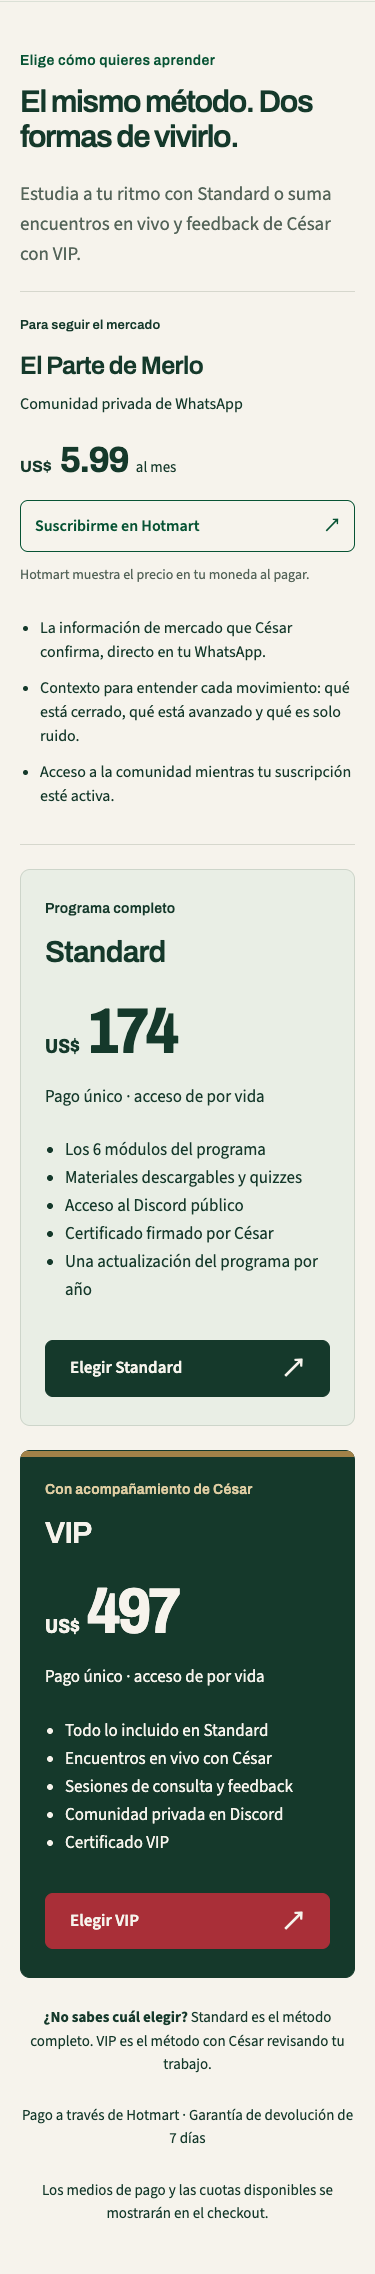
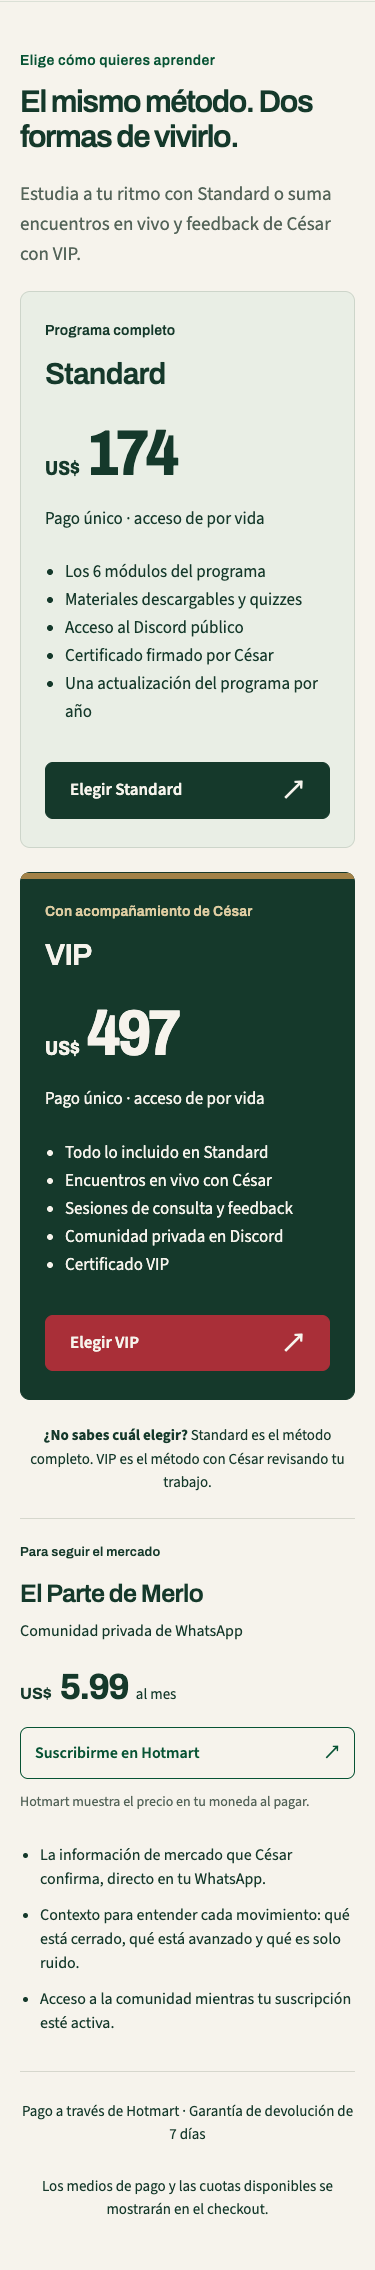
fix: prioritize academy plans above WhatsApp community

diff --git a/src/app/globals.css b/src/app/globals.css
@@ -5039,9 +5039,9 @@ details[open] p {
   text-underline-offset: 4px;
 }
 
-/* Tres niveles, con la academia como producto principal. */
+/* Academia primero; la comunidad ocupa un bloque secundario debajo. */
 .pricing-unified {
-  grid-template-columns: minmax(0, 0.82fr) repeat(2, minmax(0, 1fr));
+  grid-template-columns: repeat(2, minmax(0, 1fr));
   align-items: stretch;
   gap: 24px;
 }
@@ -5076,10 +5076,15 @@ details[open] p {
 .pricing-unified .plan .btn {
   font-size: 17px;
 }
+.pricing-unified .pricing-academy-guidance {
+  grid-column: 1 / -1;
+  margin: 0 auto;
+}
 .pricing-unified .plan-parte {
+  grid-column: 1 / -1;
   align-self: start;
   margin-top: 24px;
-  padding: 24px 20px;
+  padding: 24px 0;
   border-inline: 0;
   border-radius: 0;
   background: transparent;
@@ -5135,17 +5140,11 @@ details[open] p {
   outline-color: var(--paper);
 }
 
-@media (min-width: 681px) and (max-width: 1050px) {
-  .pricing-unified {
-    grid-template-columns: repeat(2, minmax(0, 1fr));
-  }
+@media (min-width: 681px) {
   .pricing-unified .plan-parte {
-    grid-column: 1 / -1;
     display: grid;
-    grid-template-columns: 1fr 1fr;
-    column-gap: 32px;
-    margin-top: 0;
-    padding: 24px 0;
+    grid-template-columns: repeat(2, minmax(0, 1fr));
+    column-gap: 48px;
   }
   .pricing-unified .plan-parte > .label,
   .pricing-unified .plan-parte > h3,
@@ -5154,11 +5153,16 @@ details[open] p {
   .pricing-unified .plan-parte > .parte-availability {
     grid-column: 1;
   }
+  .pricing-unified .plan-parte .commerce-button {
+    max-width: 360px;
+  }
   .pricing-unified .plan-parte > ul {
     grid-column: 2;
     grid-row: 1 / 5;
     padding-block: 0;
   }
+}
+@media (min-width: 681px) and (max-width: 1050px) {
   .nav nav {
     gap: 18px;
   }

diff --git a/src/components/Pricing.tsx b/src/components/Pricing.tsx
@@ -58,6 +58,13 @@ export function Pricing() {
           <p>{pricingContent.description}</p>
         </div>
         <div className="pricing pricing-unified">
+          {pricingPlans.map((plan) => (
+            <PlanCard key={plan.id} plan={plan} />
+          ))}
+          <p className="guarantee pricing-academy-guidance">
+            <strong>{pricingContent.guidanceTitle}</strong>{" "}
+            {pricingContent.guidance}
+          </p>
           <article className="plan plan-parte">
             <span className="label">{parteContent.tierLabel}</span>
             <h3>{parteContent.name}</h3>
@@ -69,14 +76,7 @@ export function Pricing() {
               ))}
             </ul>
           </article>
-          {pricingPlans.map((plan) => (
-            <PlanCard key={plan.id} plan={plan} />
-          ))}
         </div>
-        <p className="guarantee">
-          <strong>{pricingContent.guidanceTitle}</strong>{" "}
-          {pricingContent.guidance}
-        </p>
         <p className="guarantee">{pricingContent.guarantee}</p>
         <p className="guarantee">{pricingContent.payments}</p>
       </div>

diff --git a/docs/qa/unified-launch/PR.md b/docs/qa/unified-launch/PR.md
@@ -1,8 +1,8 @@
-La comunidad de WhatsApp se incorpora a la landing de venta como primer nivel, con Standard y VIP como productos principales. La nueva bandera `NEXT_PUBLIC_PARTE_LIVE` permite abrir la academia con la comunidad en Próximamente y habilitar su venta después mediante un nuevo build.
+Standard y VIP encabezan la sección de venta. La comunidad de WhatsApp aparece debajo de ambos planes, en un bloque secundario y más ligero, tanto en escritorio como en móvil. La nueva bandera `NEXT_PUBLIC_PARTE_LIVE` permite abrir la academia con la comunidad en Próximamente y habilitar su venta después mediante un nuevo build.
 
 ## Cambios
 - Identidad y copy de comercio centralizados en `src/lib/content.ts`. Un solo literal para el nombre; logo reemplazable en `public/parte-logo.png`.
-- Tres niveles, FAQ de diferencias, navegación y pie condicionales. `/parte` tiene compra visible sin scroll a 375 px y un estado diseñado de Próximamente sin precio ni checkout.
+- Orden visual, de lectura y tabulación: Standard, VIP y comunidad debajo. FAQ de diferencias, navegación y pie condicionales. `/parte` tiene compra visible sin scroll a 375 px y un estado diseñado de Próximamente sin precio ni checkout.
 - Soporte por número incorrecto y entrega a una comunidad privada de WhatsApp en un máximo de 72 horas. Las invitaciones de gracias y lista de espera respetan las dos banderas.
 - Tally conserva su flujo: solo se expone `submitted` tras su evento validado. La oferta de espera no aparece antes del envío ni en la maqueta.
 - Advertencias de build por checkout ausente. Ambas gracias conservan `noindex, nofollow` y quedan fuera del sitemap.
@@ -10,12 +10,13 @@ La comunidad de WhatsApp se incorpora a la landing de venta como primer nivel, c
 
 ## Validación local
 - `npm run build`, `npm run lint`, `npm test`: correctos, 15 pruebas.
+- Ajuste final de jerarquía: 12 comprobaciones de posición en home e inscripciones, con comunidad on/off, a 375, 768 y 1280 px. Standard y VIP siempre quedan antes y encima de la comunidad, sin overflow ni infracciones de axe en precios.
 - Cuatro builds: waitlist/off, waitlist/on, launch/off y launch/on. 96 comprobaciones en 8 rutas a 375, 768 y 1280 px: sin overflow ni errores de JavaScript; con off no existe checkout de comunidad en el HTML.
 - Tally simulado: origen, ventana y formId incorrectos no activan la invitación. Sin formularios reales, compras ni solicitudes a Meta.
 - Axe: 0 infracciones automatizadas en precios y las tres páginas de comercio, en los tres tamaños.
-- Lighthouse móvil, una pasada por versión contra producción local: home 90 → 95; /parte 96 → 98. CLS 0. JS final 157.6 / 158.8 KiB. La home conserva LCP 2.86 s, por encima del objetivo anterior de 2.5 s (base: 3.54 s); no se cambió el hero. No son métricas del hosting productivo.
+- Lighthouse móvil medido antes del ajuste de orden, una pasada por versión contra producción local: home 90 → 95; /parte 96 → 98. CLS 0. JS final 157.6 / 158.8 KiB. La home conserva LCP 2.86 s, por encima del objetivo anterior de 2.5 s (base: 3.54 s); no se cambió el hero. No son métricas del hosting productivo.
 
-[Informe y evidencia completa](https://github.com/mgh-nextlevelugc/academiamerlo/blob/ab0efdf98921e5807fd23ca42d4e3047e992502a/docs/qa/unified-launch/README.md), con capturas adicionales a 768 px, estados Próximamente y confirmación de Tally.
+[Informe y evidencia completa](https://github.com/mgh-nextlevelugc/academiamerlo/blob/feat/unified-academia-whatsapp/docs/qa/unified-launch/README.md), con capturas adicionales a 768 px, estados Próximamente y confirmación de Tally.
 
 ## Variables que Migue debe cargar en Vercel antes de desplegar
 Aplicar en Production y Preview. Las NEXT_PUBLIC se fijan al construir; cambiar un valor requiere nuevo deployment.
@@ -44,11 +45,11 @@ Los recortes de precios ocultan solo durante la captura el CTA flotante y el enl
 
 ### 375 px
 
-<table><tr><th>Antes</th><th>Después</th></tr><tr><td><img src="https://raw.githubusercontent.com/mgh-nextlevelugc/academiamerlo/ab0efdf98921e5807fd23ca42d4e3047e992502a/docs/qa/unified-launch/before/pricing-375.png" width="300" alt="Tres niveles, antes a 375 px"></td><td><img src="https://raw.githubusercontent.com/mgh-nextlevelugc/academiamerlo/ab0efdf98921e5807fd23ca42d4e3047e992502a/docs/qa/unified-launch/after/pricing-375.png" width="300" alt="Tres niveles, después a 375 px"></td></tr></table>
+<table><tr><th>Antes</th><th>Después</th></tr><tr><td><img src="https://raw.githubusercontent.com/mgh-nextlevelugc/academiamerlo/feat/unified-academia-whatsapp/docs/qa/unified-launch/before/pricing-375.png" width="300" alt="Tres niveles, antes a 375 px"></td><td><img src="https://raw.githubusercontent.com/mgh-nextlevelugc/academiamerlo/feat/unified-academia-whatsapp/docs/qa/unified-launch/after/pricing-375.png" width="300" alt="Tres niveles, después a 375 px"></td></tr></table>
 
 ### 1280 px
 
-<table><tr><th>Antes</th><th>Después</th></tr><tr><td><img src="https://raw.githubusercontent.com/mgh-nextlevelugc/academiamerlo/ab0efdf98921e5807fd23ca42d4e3047e992502a/docs/qa/unified-launch/before/pricing-1280.png" width="560" alt="Tres niveles, antes a 1280 px"></td><td><img src="https://raw.githubusercontent.com/mgh-nextlevelugc/academiamerlo/ab0efdf98921e5807fd23ca42d4e3047e992502a/docs/qa/unified-launch/after/pricing-1280.png" width="560" alt="Tres niveles, después a 1280 px"></td></tr></table>
+<table><tr><th>Antes</th><th>Después</th></tr><tr><td><img src="https://raw.githubusercontent.com/mgh-nextlevelugc/academiamerlo/feat/unified-academia-whatsapp/docs/qa/unified-launch/before/pricing-1280.png" width="560" alt="Tres niveles, antes a 1280 px"></td><td><img src="https://raw.githubusercontent.com/mgh-nextlevelugc/academiamerlo/feat/unified-academia-whatsapp/docs/qa/unified-launch/after/pricing-1280.png" width="560" alt="Tres niveles, después a 1280 px"></td></tr></table>
 
 </details>
 
@@ -57,11 +58,11 @@ Los recortes de precios ocultan solo durante la captura el CTA flotante y el enl
 
 ### 375 px
 
-<table><tr><th>Antes</th><th>Después</th></tr><tr><td><img src="https://raw.githubusercontent.com/mgh-nextlevelugc/academiamerlo/ab0efdf98921e5807fd23ca42d4e3047e992502a/docs/qa/unified-launch/before/parte-375.png" width="300" alt="Comunidad, antes a 375 px"></td><td><img src="https://raw.githubusercontent.com/mgh-nextlevelugc/academiamerlo/ab0efdf98921e5807fd23ca42d4e3047e992502a/docs/qa/unified-launch/after/parte-375.png" width="300" alt="Comunidad, después a 375 px"></td></tr></table>
+<table><tr><th>Antes</th><th>Después</th></tr><tr><td><img src="https://raw.githubusercontent.com/mgh-nextlevelugc/academiamerlo/feat/unified-academia-whatsapp/docs/qa/unified-launch/before/parte-375.png" width="300" alt="Comunidad, antes a 375 px"></td><td><img src="https://raw.githubusercontent.com/mgh-nextlevelugc/academiamerlo/feat/unified-academia-whatsapp/docs/qa/unified-launch/after/parte-375.png" width="300" alt="Comunidad, después a 375 px"></td></tr></table>
 
 ### 1280 px
 
-<table><tr><th>Antes</th><th>Después</th></tr><tr><td><img src="https://raw.githubusercontent.com/mgh-nextlevelugc/academiamerlo/ab0efdf98921e5807fd23ca42d4e3047e992502a/docs/qa/unified-launch/before/parte-1280.png" width="560" alt="Comunidad, antes a 1280 px"></td><td><img src="https://raw.githubusercontent.com/mgh-nextlevelugc/academiamerlo/ab0efdf98921e5807fd23ca42d4e3047e992502a/docs/qa/unified-launch/after/parte-1280.png" width="560" alt="Comunidad, después a 1280 px"></td></tr></table>
+<table><tr><th>Antes</th><th>Después</th></tr><tr><td><img src="https://raw.githubusercontent.com/mgh-nextlevelugc/academiamerlo/feat/unified-academia-whatsapp/docs/qa/unified-launch/before/parte-1280.png" width="560" alt="Comunidad, antes a 1280 px"></td><td><img src="https://raw.githubusercontent.com/mgh-nextlevelugc/academiamerlo/feat/unified-academia-whatsapp/docs/qa/unified-launch/after/parte-1280.png" width="560" alt="Comunidad, después a 1280 px"></td></tr></table>
 
 </details>
 
@@ -70,11 +71,11 @@ Los recortes de precios ocultan solo durante la captura el CTA flotante y el enl
 
 ### 375 px
 
-<table><tr><th>Antes</th><th>Después</th></tr><tr><td><img src="https://raw.githubusercontent.com/mgh-nextlevelugc/academiamerlo/ab0efdf98921e5807fd23ca42d4e3047e992502a/docs/qa/unified-launch/before/gracias-375.png" width="300" alt="Gracias de academia, antes a 375 px"></td><td><img src="https://raw.githubusercontent.com/mgh-nextlevelugc/academiamerlo/ab0efdf98921e5807fd23ca42d4e3047e992502a/docs/qa/unified-launch/after/gracias-375.png" width="300" alt="Gracias de academia, después a 375 px"></td></tr></table>
+<table><tr><th>Antes</th><th>Después</th></tr><tr><td><img src="https://raw.githubusercontent.com/mgh-nextlevelugc/academiamerlo/feat/unified-academia-whatsapp/docs/qa/unified-launch/before/gracias-375.png" width="300" alt="Gracias de academia, antes a 375 px"></td><td><img src="https://raw.githubusercontent.com/mgh-nextlevelugc/academiamerlo/feat/unified-academia-whatsapp/docs/qa/unified-launch/after/gracias-375.png" width="300" alt="Gracias de academia, después a 375 px"></td></tr></table>
 
 ### 1280 px
 
-<table><tr><th>Antes</th><th>Después</th></tr><tr><td><img src="https://raw.githubusercontent.com/mgh-nextlevelugc/academiamerlo/ab0efdf98921e5807fd23ca42d4e3047e992502a/docs/qa/unified-launch/before/gracias-1280.png" width="560" alt="Gracias de academia, antes a 1280 px"></td><td><img src="https://raw.githubusercontent.com/mgh-nextlevelugc/academiamerlo/ab0efdf98921e5807fd23ca42d4e3047e992502a/docs/qa/unified-launch/after/gracias-1280.png" width="560" alt="Gracias de academia, después a 1280 px"></td></tr></table>
+<table><tr><th>Antes</th><th>Después</th></tr><tr><td><img src="https://raw.githubusercontent.com/mgh-nextlevelugc/academiamerlo/feat/unified-academia-whatsapp/docs/qa/unified-launch/before/gracias-1280.png" width="560" alt="Gracias de academia, antes a 1280 px"></td><td><img src="https://raw.githubusercontent.com/mgh-nextlevelugc/academiamerlo/feat/unified-academia-whatsapp/docs/qa/unified-launch/after/gracias-1280.png" width="560" alt="Gracias de academia, después a 1280 px"></td></tr></table>
 
 </details>
 
@@ -83,10 +84,10 @@ Los recortes de precios ocultan solo durante la captura el CTA flotante y el enl
 
 ### 375 px
 
-<table><tr><th>Antes</th><th>Después</th></tr><tr><td><img src="https://raw.githubusercontent.com/mgh-nextlevelugc/academiamerlo/ab0efdf98921e5807fd23ca42d4e3047e992502a/docs/qa/unified-launch/before/parte-gracias-375.png" width="300" alt="Gracias de comunidad, antes a 375 px"></td><td><img src="https://raw.githubusercontent.com/mgh-nextlevelugc/academiamerlo/ab0efdf98921e5807fd23ca42d4e3047e992502a/docs/qa/unified-launch/after/parte-gracias-375.png" width="300" alt="Gracias de comunidad, después a 375 px"></td></tr></table>
+<table><tr><th>Antes</th><th>Después</th></tr><tr><td><img src="https://raw.githubusercontent.com/mgh-nextlevelugc/academiamerlo/feat/unified-academia-whatsapp/docs/qa/unified-launch/before/parte-gracias-375.png" width="300" alt="Gracias de comunidad, antes a 375 px"></td><td><img src="https://raw.githubusercontent.com/mgh-nextlevelugc/academiamerlo/feat/unified-academia-whatsapp/docs/qa/unified-launch/after/parte-gracias-375.png" width="300" alt="Gracias de comunidad, después a 375 px"></td></tr></table>
 
 ### 1280 px
 
-<table><tr><th>Antes</th><th>Después</th></tr><tr><td><img src="https://raw.githubusercontent.com/mgh-nextlevelugc/academiamerlo/ab0efdf98921e5807fd23ca42d4e3047e992502a/docs/qa/unified-launch/before/parte-gracias-1280.png" width="560" alt="Gracias de comunidad, antes a 1280 px"></td><td><img src="https://raw.githubusercontent.com/mgh-nextlevelugc/academiamerlo/ab0efdf98921e5807fd23ca42d4e3047e992502a/docs/qa/unified-launch/after/parte-gracias-1280.png" width="560" alt="Gracias de comunidad, después a 1280 px"></td></tr></table>
+<table><tr><th>Antes</th><th>Después</th></tr><tr><td><img src="https://raw.githubusercontent.com/mgh-nextlevelugc/academiamerlo/feat/unified-academia-whatsapp/docs/qa/unified-launch/before/parte-gracias-1280.png" width="560" alt="Gracias de comunidad, antes a 1280 px"></td><td><img src="https://raw.githubusercontent.com/mgh-nextlevelugc/academiamerlo/feat/unified-academia-whatsapp/docs/qa/unified-launch/after/parte-gracias-1280.png" width="560" alt="Gracias de comunidad, después a 1280 px"></td></tr></table>
 
 </details>

diff --git a/docs/qa/unified-launch/README.md b/docs/qa/unified-launch/README.md
@@ -3,6 +3,19 @@
 Fecha: 17 de noviembre de 2026. Base: `333ed7b`. Comprobaciones locales
 contra builds de producción, sin usar el navegador personal del usuario.
 
+## Jerarquía de productos
+
+Standard y VIP aparecen primero, en una fila de dos columnas en escritorio y
+apilados en móvil. La comunidad queda debajo de ambos en un bloque más ligero.
+El orden es el mismo en el DOM, en la lectura y en la tabulación. Esta decisión
+posterior de Migue sustituye el orden del brief inicial.
+
+Capturas de precios actualizadas para ambos estados y los tres anchos.
+Comprobaciones de posición: [on](pricing-order-on.json), [off](pricing-order-off.json).
+Las 12 combinaciones de ruta, tamaño y estado pasan: la comunidad queda
+físicamente debajo de ambos planes, sin overflow ni infracciones de axe
+en la sección. Build y lint pasan; las 15 pruebas verifican el nuevo orden.
+
 ## Resultado
 
 - `npm run build`, `npm run lint` y `npm test` pasan. 15 pruebas automatizadas,
@@ -32,6 +45,7 @@ contra builds de producción, sin usar el navegador personal del usuario.
 
 ## Lighthouse móvil
 
+Medición anterior al ajuste de orden de las tarjetas.
 Lighthouse 12.8.2, Chrome headless en perfiles temporales, simulación móvil
 con RTT 150 ms y CPU x4. Una pasada por ruta y versión, ejecutadas en serie
 sobre `next build` + `next start`, con Meta y Tally bloqueados. La home es

diff --git a/README.md b/README.md
@@ -72,7 +72,7 @@ de cambiarlas hay que generar un nuevo deployment. Las banderas permiten el lanz
 | `waitlist` | `off` | Lista de espera de la academia | Próximamente; sin checkout ni enlaces en menú/pie |
 | `waitlist` | `on` | Lista de espera; invitación a la comunidad solo tras envío confirmado | En venta, con menú y pie |
 | `launch` | `off` | Academia Standard/VIP y tarjeta de comunidad Próximamente | Sin checkout |
-| `launch` | `on` | Tres niveles: comunidad, Standard, VIP | En venta |
+| `launch` | `on` | Standard y VIP primero; comunidad debajo | En venta |
 
 Primero se puede desplegar `launch/off` y después `launch/on`. No hay fechas
 programadas en código. Cualquier valor de PARTE_LIVE distinto de `on` se
